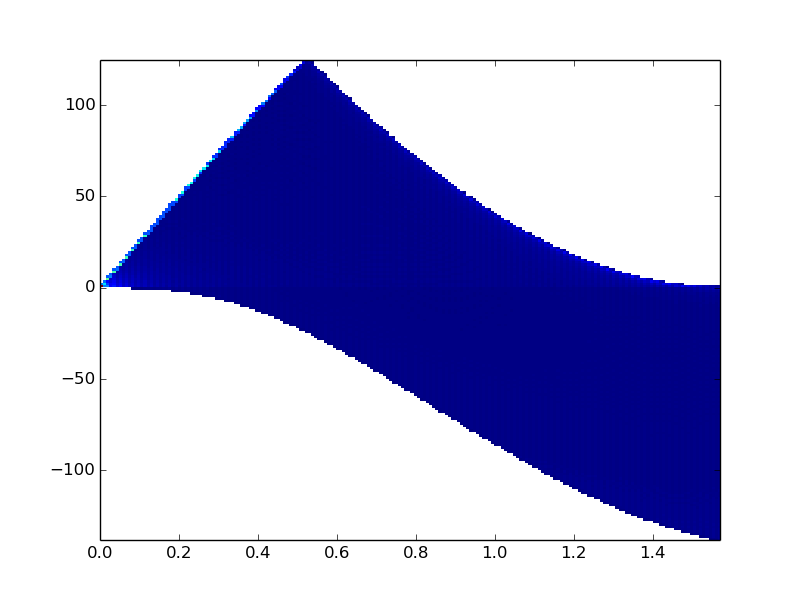
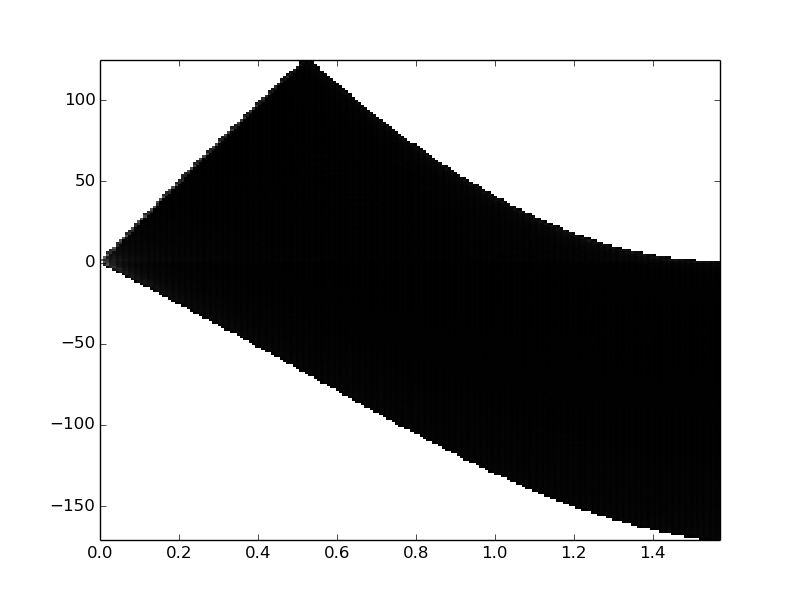
Sampled with polar coordinates

diff --git a/q4.py b/q4.py
@@ -1,0 +1,128 @@
+import math
+import numpy as np
+import matplotlib.mlab as mlab
+import matplotlib.pyplot as plt
+import pylab as pl
+import matplotlib.cm as cm
+
+# Constants:
+R0 = 10 #kpc # distance from sun to galactic centre in parsecs (approx)
+V0 = 250
+
+def vel(r, l):
+    R = math.sqrt(r**2 + R0**2 - 2*r*R0*math.cos(l)) #kpc
+    #print "For r: " + str(r) + " and angle: " + str(l) + \
+    #       " R is: " + str(R)
+
+    if R < 5 and R >= 0:
+        V = 50*R #km/s
+    elif R >= 5:
+        V = 250 #km/s
+
+    return R0*(V / R - V0 / R0)*math.sin(l)
+
+def vel2(r, l):
+    R = math.sqrt(r**2 + R0**2 - 2*r*R0*math.cos(l)) #kpc
+    #print "For r: " + str(r) + " and angle: " + str(l) + \
+    #       " R is: " + str(R)
+
+    if R < 5 and R >= 0:
+        V = 50*R #km/s
+    elif R >= 5:
+        V = 250 #km/s
+
+    if R > 4 and R < 6:
+        bright = True
+    else:
+        bright = False
+
+    return R0*(V / R - V0 / R0)*math.sin(l), bright
+
+
+def vel3(r, l):
+    R = math.sqrt(r**2 + R0**2 - 2*r*R0*math.cos(l)) #kpc
+    #print "For r: " + str(r) + " and angle: " + str(l) + \
+    #       " R is: " + str(R)
+
+    if R < 5 and R >= 0:
+        V = 50*R #km/s
+    elif R >= 5:
+        V = 250 #km/s
+
+    if R > 4 and R < 6:
+        bright = True
+        vel_rad = 50*math.cos( math.asin( math.sin(l)*R/R0 ) )
+    else:
+        vel_rad = 0
+        bright = False
+
+    return R0*(V / R - V0 / R0)*math.sin(l) - vel_rad, bright
+
+def vel4(r, l, R):
+    #print "For r: " + str(r) + " and angle: " + str(l) + \
+    #       " R is: " + str(R)
+
+    if R < 5 and R >= 0:
+        V = 50*R #km/s
+    elif R >= 5:
+        V = 250 #km/s
+
+    return R0*(V / R - V0 / R0)*math.sin(l)
+
+def vel5(r, l, R):
+    #print "For r: " + str(r) + " and angle: " + str(l) + \
+    #       " R is: " + str(R)
+
+    if R < 5 and R >= 0:
+        V = 50*R #km/s
+    elif R >= 5:
+        V = 250 #km/s
+
+    if R < 6 and R > 4:
+        duplicate = True
+    else:
+        duplicate = False
+
+    return R0*(V / R - V0 / R0)*math.sin(l), duplicate
+
+
+
+
+def main4():
+    xs = np.linspace(0.001,15,400)
+    ys = np.linspace(0.001,25,800)
+
+    l_list = []
+    vel_list = []
+
+    for i in range(len(xs)):
+        for j in range(len(ys)):
+            r = math.sqrt( ys[j]**2 + xs[i]**2 )
+            l = math.atan( xs[i] / ys[j] )
+            R = math.sqrt( (ys[j] - 10)**2 + xs[i]**2)
+            if (R < 15):
+                l_list.append(l)
+                vel_list.append(vel4(r, l, R))
+
+    plt.hist2d(l_list, vel_list, 50, cmin=1)
+    plt.show()
+
+
+def main():
+    ls = np.linspace(0.001, math.pi/2, 400)
+    rs = np.linspace(0.001, 25, 400)
+    
+    l_list = []
+    vel_list = []
+
+    for i in range(len(ls)):
+        for j in range(len(rs)):
+            R = math.sqrt(rs[j]**2 + 10**2 - 2 * 10 * rs[j] * math.cos(ls[i]))
+            if (R < 15):
+                l_list.append(ls[i])
+                vel_list.append(vel4(rs[j], ls[i], R))
+
+    plt.hist2d(l_list, vel_list, 50, cmin=1)
+    plt.show()
+            
+main()

diff --git a/ass5_4.py b/ass5_4.py
@@ -58,6 +58,72 @@ def vel3(r, l):
 
     return R0*(V / R - V0 / R0)*math.sin(l) - vel_rad, bright
 
+def vel4(r, l, R):
+    #print "For r: " + str(r) + " and angle: " + str(l) + \
+    #       " R is: " + str(R)
+
+    if R < 5 and R >= 0:
+        V = 50*R #km/s
+    elif R >= 5:
+        V = 250 #km/s
+
+    return R0*(V / R - V0 / R0)*math.sin(l)
+
+def vel5(r, l, R):
+    #print "For r: " + str(r) + " and angle: " + str(l) + \
+    #       " R is: " + str(R)
+
+    if R < 5 and R >= 0:
+        V = 50*R #km/s
+    elif R >= 5:
+        V = 250 #km/s
+
+    if R < 6 and R > 4:
+        duplicate = True
+    else:
+        duplicate = False
+
+    return R0*(V / R - V0 / R0)*math.sin(l), duplicate
+
+
+def main4():
+    xs = np.linspace(0.001,15,400)
+    ys = np.linspace(0.001,25,800)
+
+    l_list = []
+    vel_list = []
+
+    for i in range(len(xs)):
+        for j in range(len(ys)):
+            r = math.sqrt( ys[j]**2 + xs[i]**2 )
+            l = math.atan( xs[i] / ys[j] )
+            R = math.sqrt( (ys[j] - 10)**2 + xs[i]**2)
+            if (R < 15):
+                l_list.append(l)
+                vel_list.append(vel4(r, l, R))
+
+    plt.hist2d(l_list, vel_list, 50, cmin=1)
+    plt.show()
+
+
+def main4():
+    xs = np.linspace(0.001,15,400)
+    ys = np.linspace(0.001,25,800)
+
+    l_list = []
+    vel_list = []
+
+    for i in range(len(xs)):
+        for j in range(len(ys)):
+            r = math.sqrt( ys[j]**2 + xs[i]**2 )
+            l = math.atan( xs[i] / ys[j] )
+            R = math.sqrt( (ys[j] - 10)**2 + xs[i]**2)
+            if (R < 15):
+                l_list.append(l)
+                vel_list.append(vel4(r, l, R))
+
+    plt.hist2d(l_list, vel_list, 50, cmin=1)
+    plt.show()
 
 def main3():
     longitude_array = np.zeros((DATA_DIM,DATA_DIM))
@@ -95,7 +161,7 @@ def main2():
     velocity_array = np.zeros((DATA_DIM,DATA_DIM))
 
     longitude_vals = np.linspace(0, math.pi/2, DATA_DIM)
-    r_vals = np.linspace(0, 20, DATA_DIM) # change r_max to higher when working
+    r_vals = np.linspace(0, 30, DATA_DIM) # change r_max to higher when working
     
     duplicates_long = []
     duplicates_vels = []
@@ -126,7 +192,7 @@ def main():
     velocity_array = np.zeros((DATA_DIM,DATA_DIM))
 
     longitude_vals = np.linspace(0, math.pi/2, DATA_DIM)
-    r_vals = np.linspace(0, 20, DATA_DIM) # change r_max to higher when working
+    r_vals = np.linspace(0, 30, DATA_DIM) # change r_max to higher when working
     
     for i in range(DATA_DIM):
         for j in range(DATA_DIM):
@@ -138,12 +204,13 @@ def main():
     #print velocity_array
 
     plt.hist2d(longitude_array.flatten().tolist(),
-            velocity_array.flatten().tolist(), 200, cmin=1)
+            velocity_array.flatten().tolist(), 200, cmin=1,
+            cmap = plt.get_cmap('gray'))
 
     plt.savefig("4b.png")
 
 
 DATA_DIM = 500 
-main()
-main2()
-main3()
+main4()
+#main2()
+#main3()
